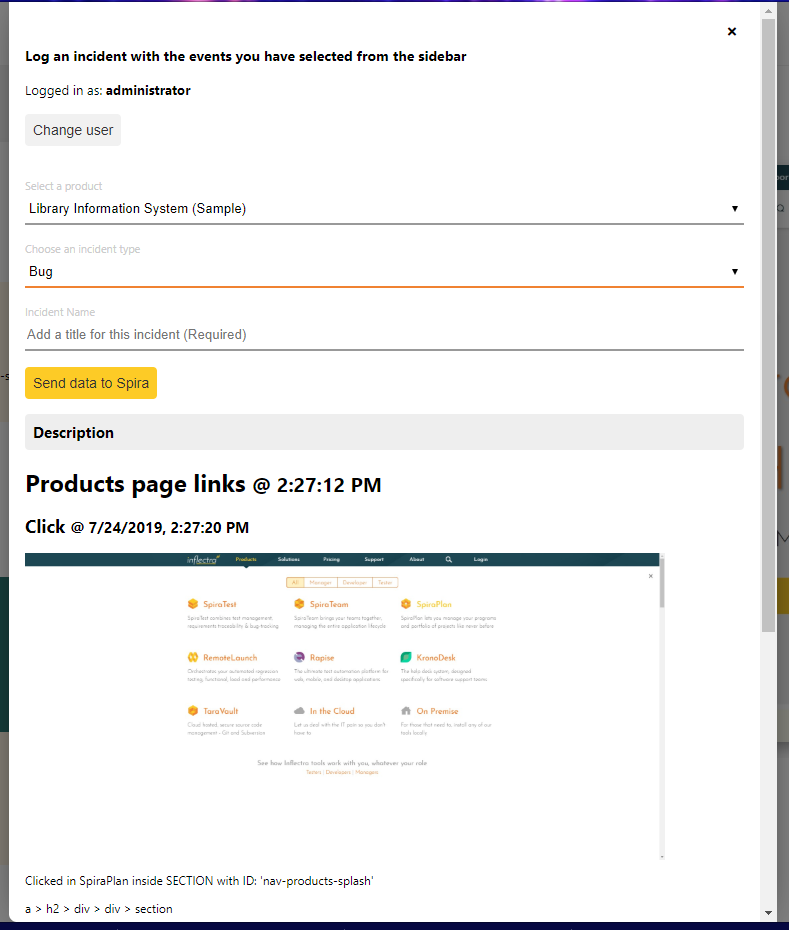
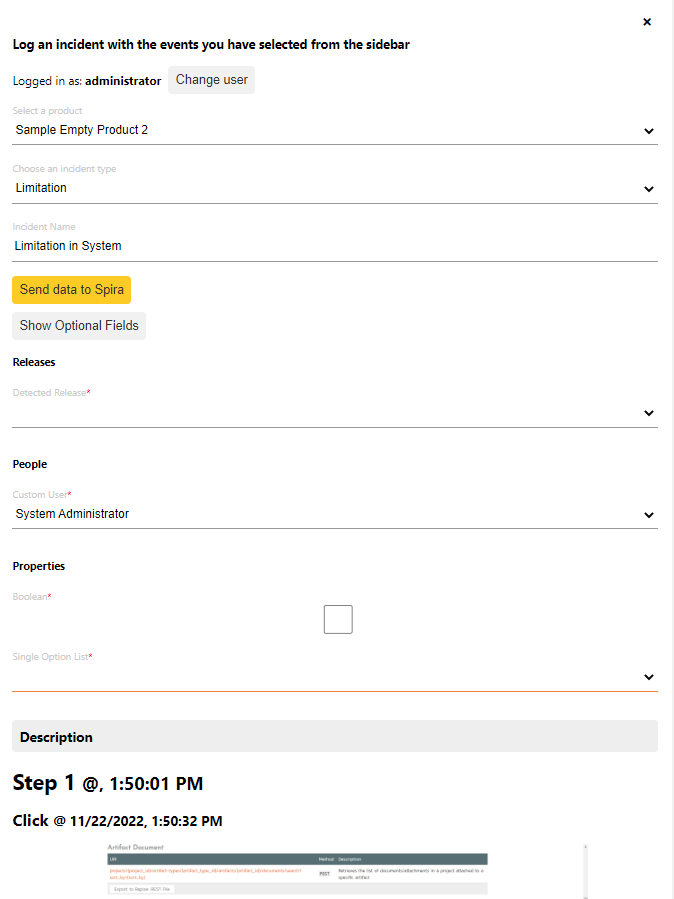
change SpiraCapture documentation & update image
Image displaying the action of logging an incident has been updated to show the new functionality available. Documentation now mentions this and Potential Gotchas have been updated.

Changed region(s): [[0.0, 0.0, 1.0, 1.0]]

diff --git a/docs/SpiraCapture/User-Guide.md b/docs/SpiraCapture/User-Guide.md
@@ -84,7 +84,7 @@ The action bar has four buttons:
 
 
 ## Sending selected events to Spira
-You can send all selected events to Spira as a single new incident. Once connected to Spira, as explained below, you choose a product and then create your incident. The selected events, including their screenshots, will be saved into the description field of the new incident. 
+You can send all selected events to Spira as a single new incident. Once connected to Spira, as explained below, you choose a product, fill out the incident creation form and then create your incident. The selected events, including their screenshots, will be saved into the description field of the new incident. 
 
 ### Connect to Spira
 First, make sure you have enabled API access to Spira. You do this from your Profile Page from within the Spira application. Make sure you **enable rss** and generate an **RSS Token**. This RSS token is the same token you use for API access, which is what SpiraCaptures uses.
@@ -101,11 +101,12 @@ Clicking the **Send selected events to Spira** button will show a popup. The fir
 * **API key/RSS Token**: as described above. Make sure to include it in full - including the { }. TIP: you can click on the RSS Token from your profile page in Spira to save it to the clipboard 
 
 ### Create the incident
-Once you are logged in to your Spira (and have your events selected) the popup will require 3 fields to be selected/filled in.
+Once you are logged in to your Spira (and have your events selected) the popup will require at least 3 fields to be selected/filled in.
 
 * **Selecting a product**: choose a product from the list of all the ones you have access to in Spira
 * **Select an Incident type**: pick the most relevant type available for the product you select
 * **Incident Name**: Type in the name to be given to the incident
+* **Incident Fields**: Incident fields for incidents within the product you selected will be loaded. Some of these fields may be required, as dictated by the workflow of the selected incident type, in the selected product, and the default status for incidents in that product. 
 
 Once these have been filled in, click the "Send data to Spira" button to connect to your Spira application and upload the incident. Once the incident has been created you will see a link next to the send button that will open the incident in Spira for you.
 
@@ -119,4 +120,5 @@ Once these have been filled in, click the "Send data to Spira" button to connect
 * If a link opens in a new tab or window it will not be recorded. You will need to click the capture button on that new tab to start capturing data
 * On newly installing or reinstalling the extension refresh any pages you would like to capture before starting to capture
 * To create incidents in Spira you must have version 6.1+
-* You may not be able to create an incident in Spira if your product is set up where a custom field cannot be left blank (as specified in the custom property definition)
+* You will not be able to create an incident in Spira if your product or workflow is set up such that a custom field cannot be left blank and it was not filled out within the form.
+* Some custom properties may have limitations on them such as maximum or minimum values which SpiraCapture cannot enforce directly. These will also block incident creation, but an error message should be displayed which explains where the issue is and why it occurred to provide an opportunity to fix it and try again. 
